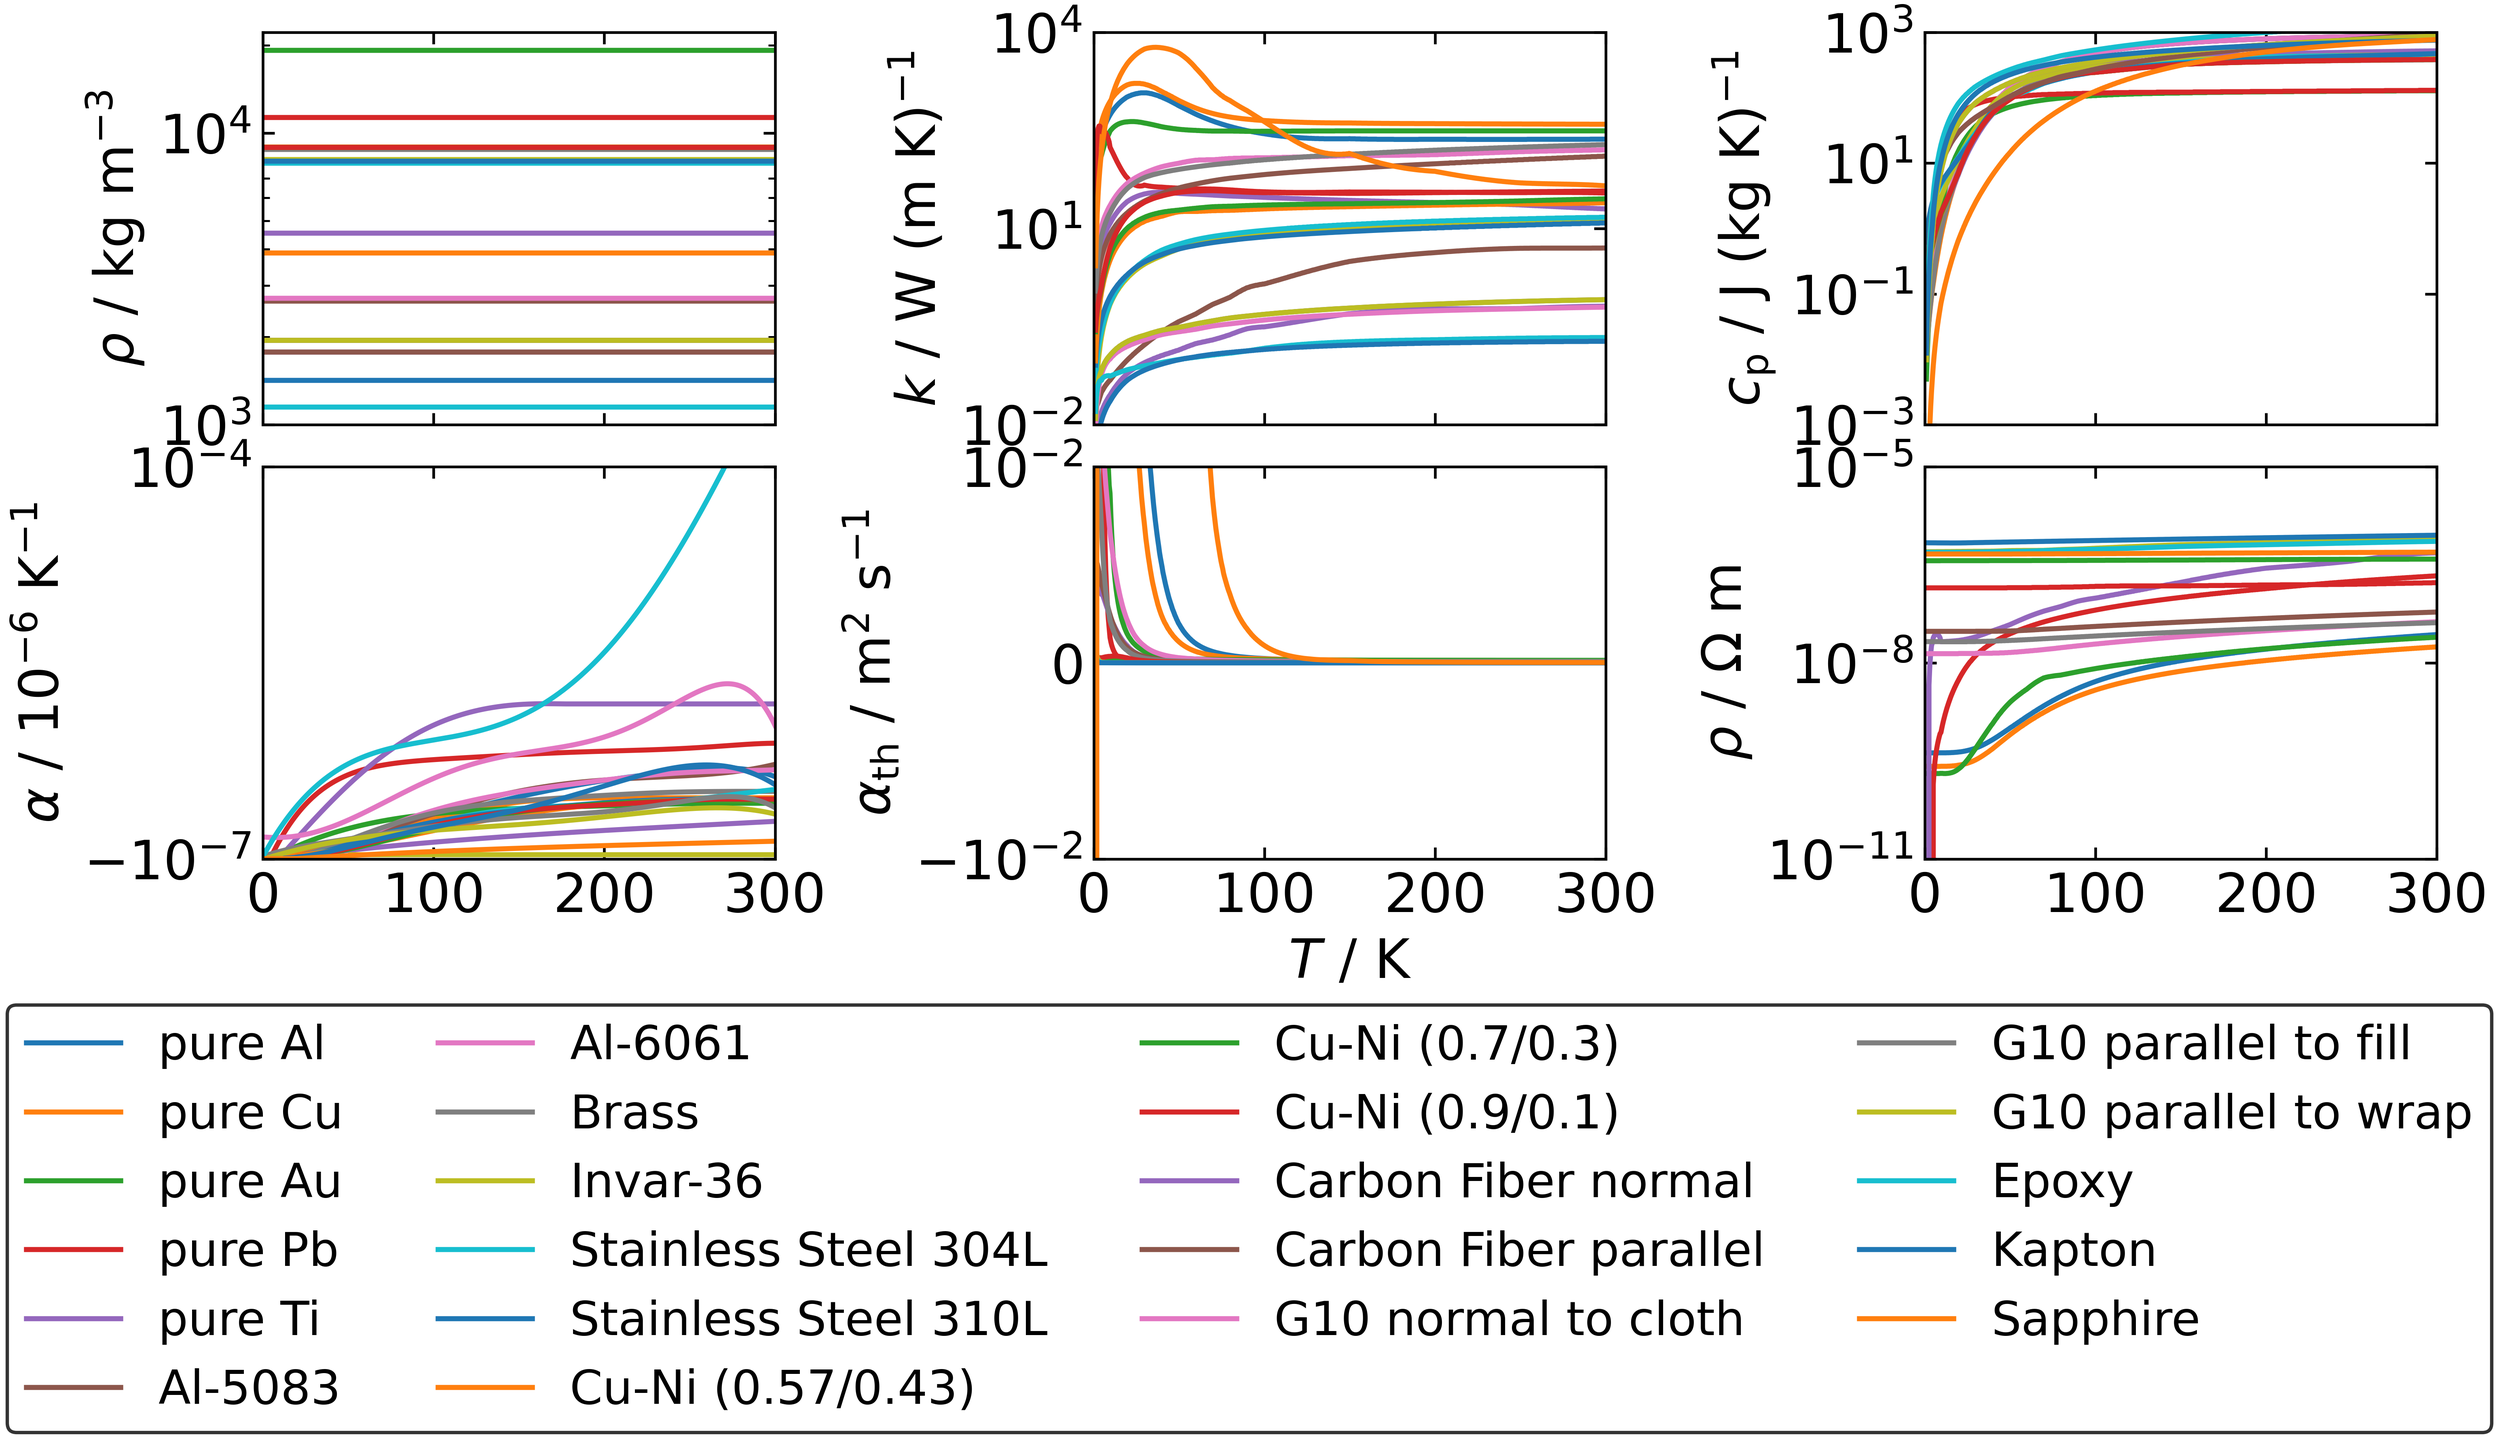
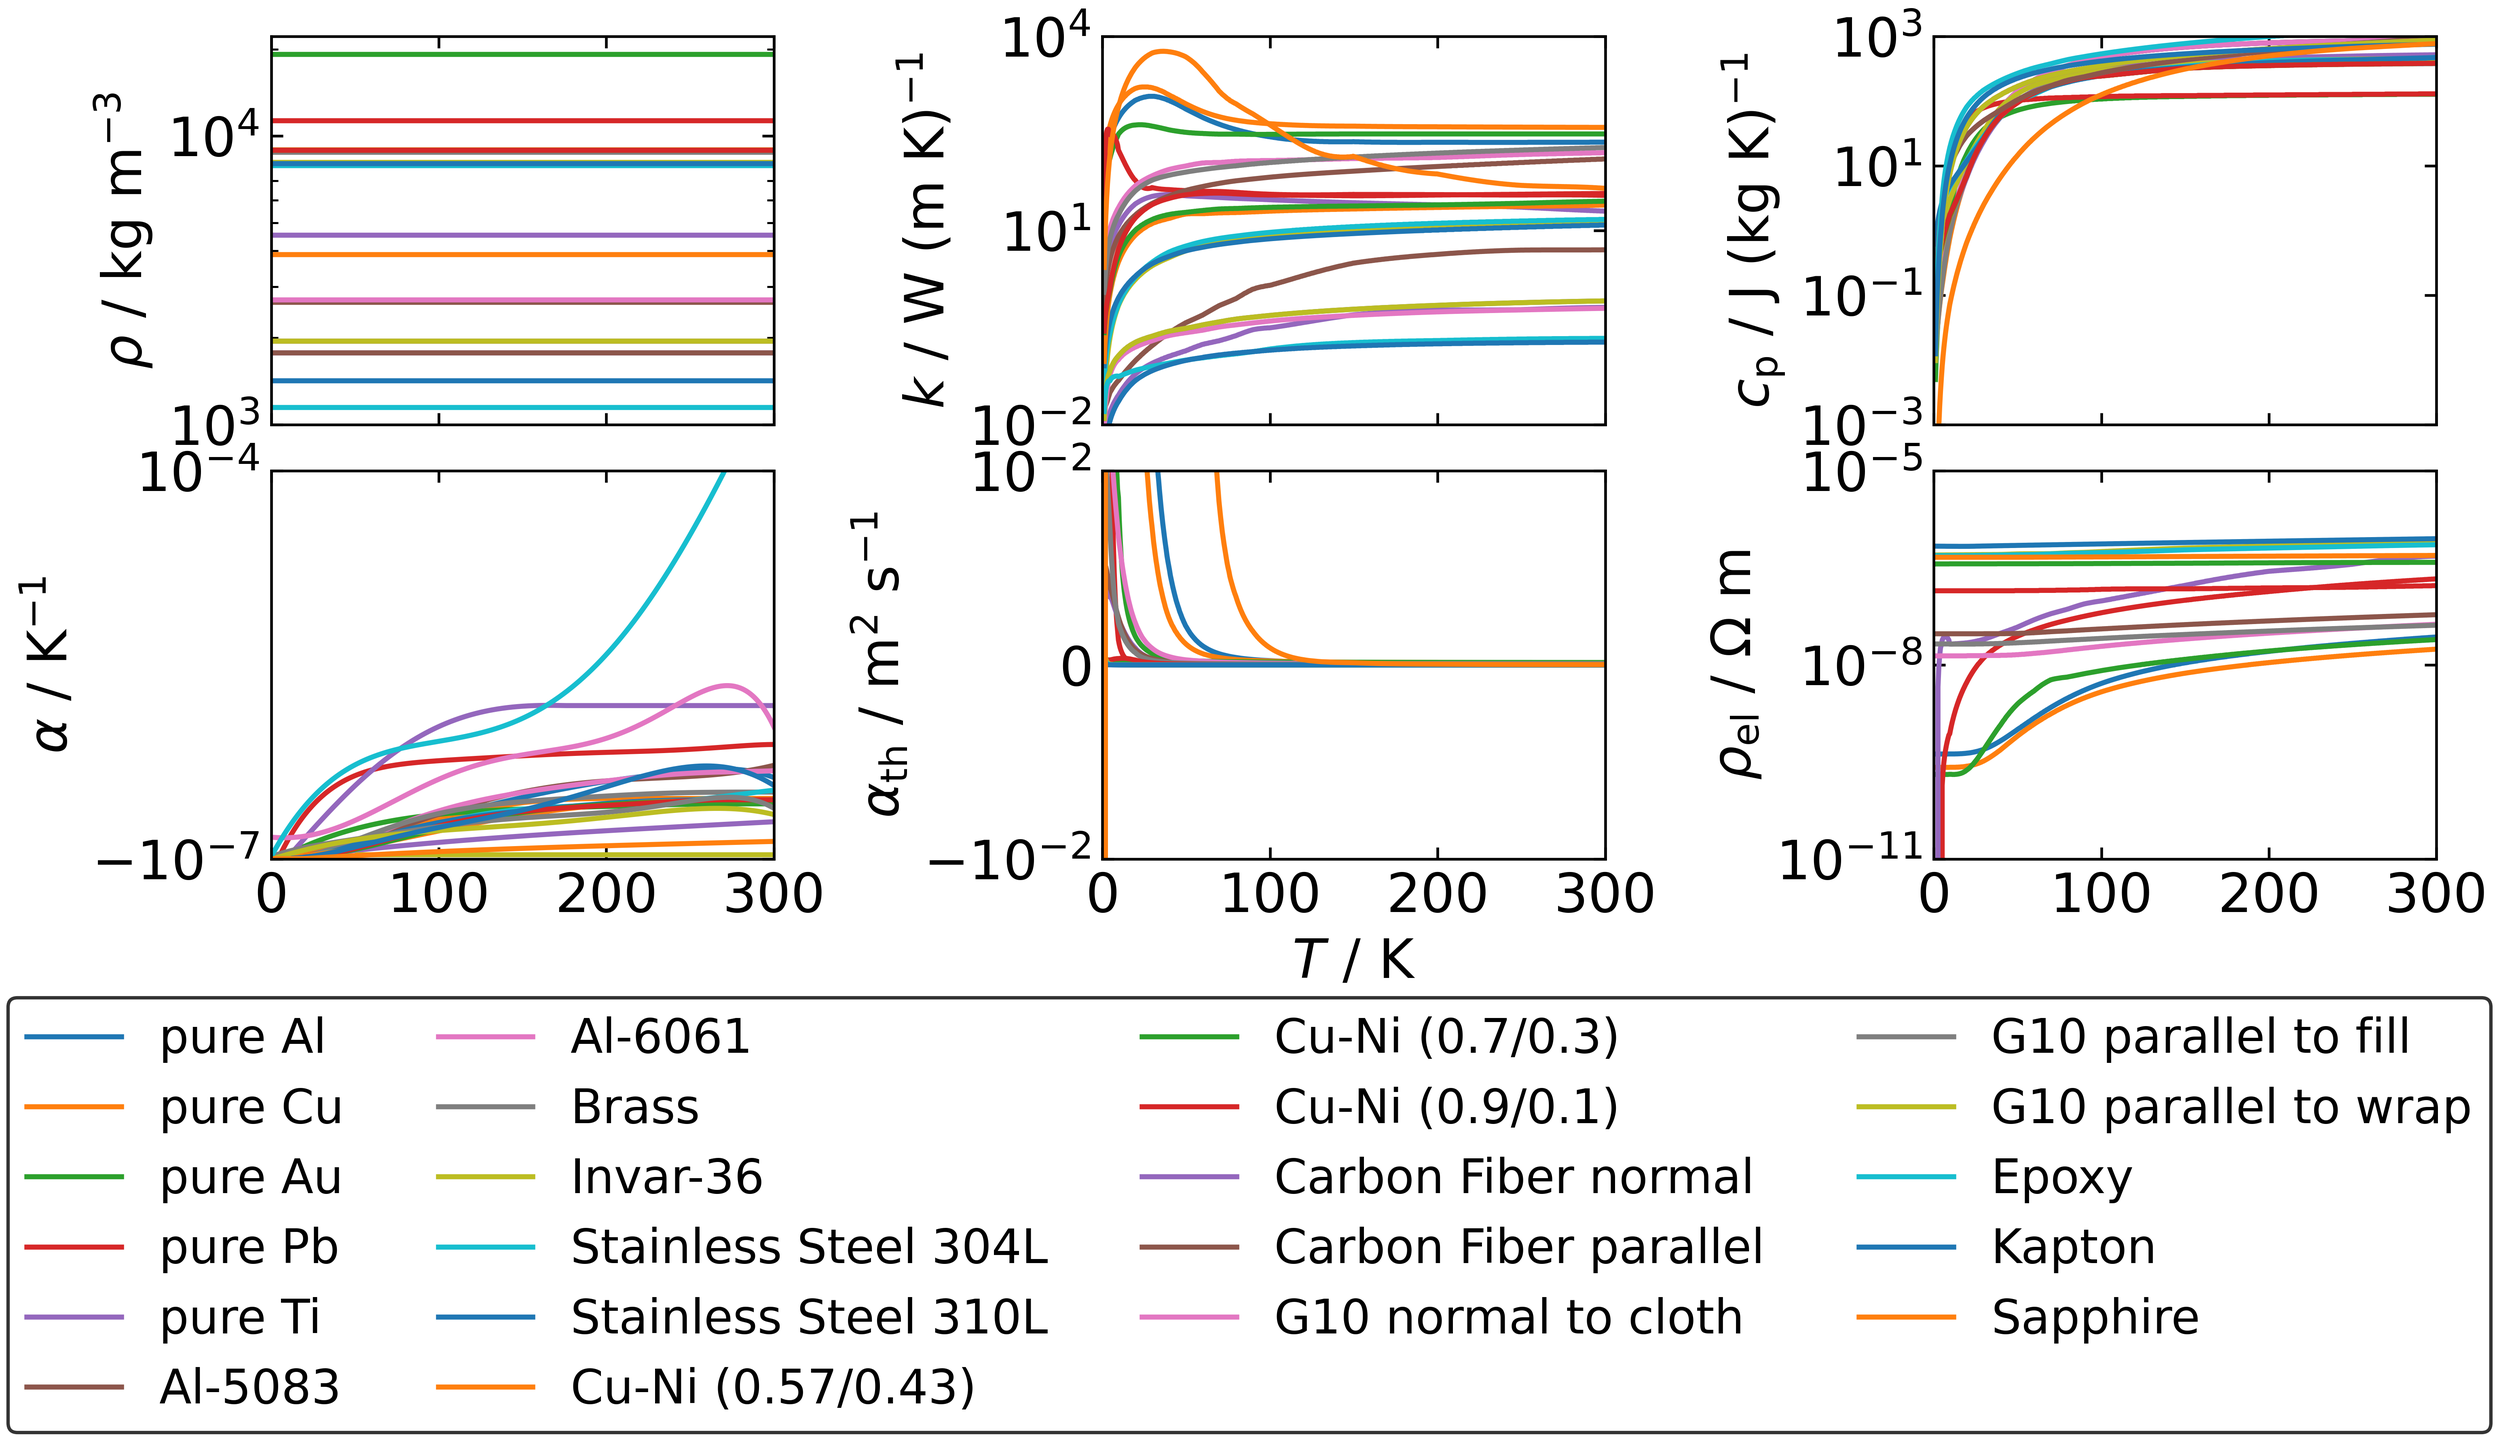
updating README and test-scripts

diff --git a/SolidProps/tests/plot_props.py b/SolidProps/tests/plot_props.py
@@ -68,9 +68,9 @@ def main():
     ax0.set_ylabel(r'$\rho~/~{\rm kg~m^{-3}}$')
     ax1.set_ylabel(r'$k~/~{\rm W~(m~K)^{-1}}$')
     ax2.set_ylabel(r'$c_{\rm p}~/~{\rm J~(kg~K)^{-1}}$')
-    ax3.set_ylabel(r'$\alpha~/~{\rm 10^{-6}~K^{-1}}$')
+    ax3.set_ylabel(r'$\alpha~/~{\rm K^{-1}}$')
     ax4.set_ylabel(r'$\alpha_{\rm th}~/~{\rm m^2~s^{-1}}$')
-    ax5.set_ylabel(r'$\rho~/~{\rm \Omega~m}$')
+    ax5.set_ylabel(r'$\rho_{\rm el}~/~{\rm \Omega~m}$')
 
     ax4.set_yticks([-1e-2, 0, 1e-2])
 

diff --git a/README.md b/README.md
@@ -54,19 +54,19 @@ To remove the repository run: `pip uninstall SolidProps` and delete the local re
 
 The library is a simple class with only a few methods:
 
-`get_rhomass()` returns meterial density in ${\rm kg~m^{-3}}$
+`get_rhomass()` returns meterial density $\rho$ in ${\rm kg~m^{-3}}$
 
-`get_K(T)` returns thermal conductivity in ${\rm W~(m~K)^{-1}}$
+`get_K(T)` returns thermal conductivity $k$ in ${\rm W~(m~K)^{-1}}$
 
-`get_cp(T)` returns specific heat in ${\rm J~(kg~K)^{-1}}$
+`get_cp(T)` returns specific heat $c_{\rm p}$ in ${\rm J~(kg~K)^{-1}}$
 
-`get_cv(T)` returns specific heat in ${\rm J~(kg~K)^{-1}}$
+`get_cv(T)` returns specific heat $c_{\rm v}$ in ${\rm J~(kg~K)^{-1}}$
 
-`get_thermal_expansion_coefficient(T)` returns thermal expansion coefficient in ${\rm K^{-1}}$
+`get_thermal_expansion_coefficient(T)` returns thermal expansion coefficient $\alpha$ in ${\rm K^{-1}}$
 
-`get_thermal_diffusivity(T)` returns thermal diffusivity in ${\rm m^2~s^{-1}}$
+`get_thermal_diffusivity(T)` returns thermal diffusivity $\alpha_{\rm th}$ in ${\rm m^2~s^{-1}}$
 
-`get_electrical_resistivity(T)` returns electrical resistivity in ${\rm \Omega~m}$
+`get_electrical_resistivity(T)` returns electrical resistivity $\rho_{\rm el}$ in ${\rm \Omega~m}$
 
 All methods but the density calculations take the absolute temperature (in Kelvins) as an input.
 
